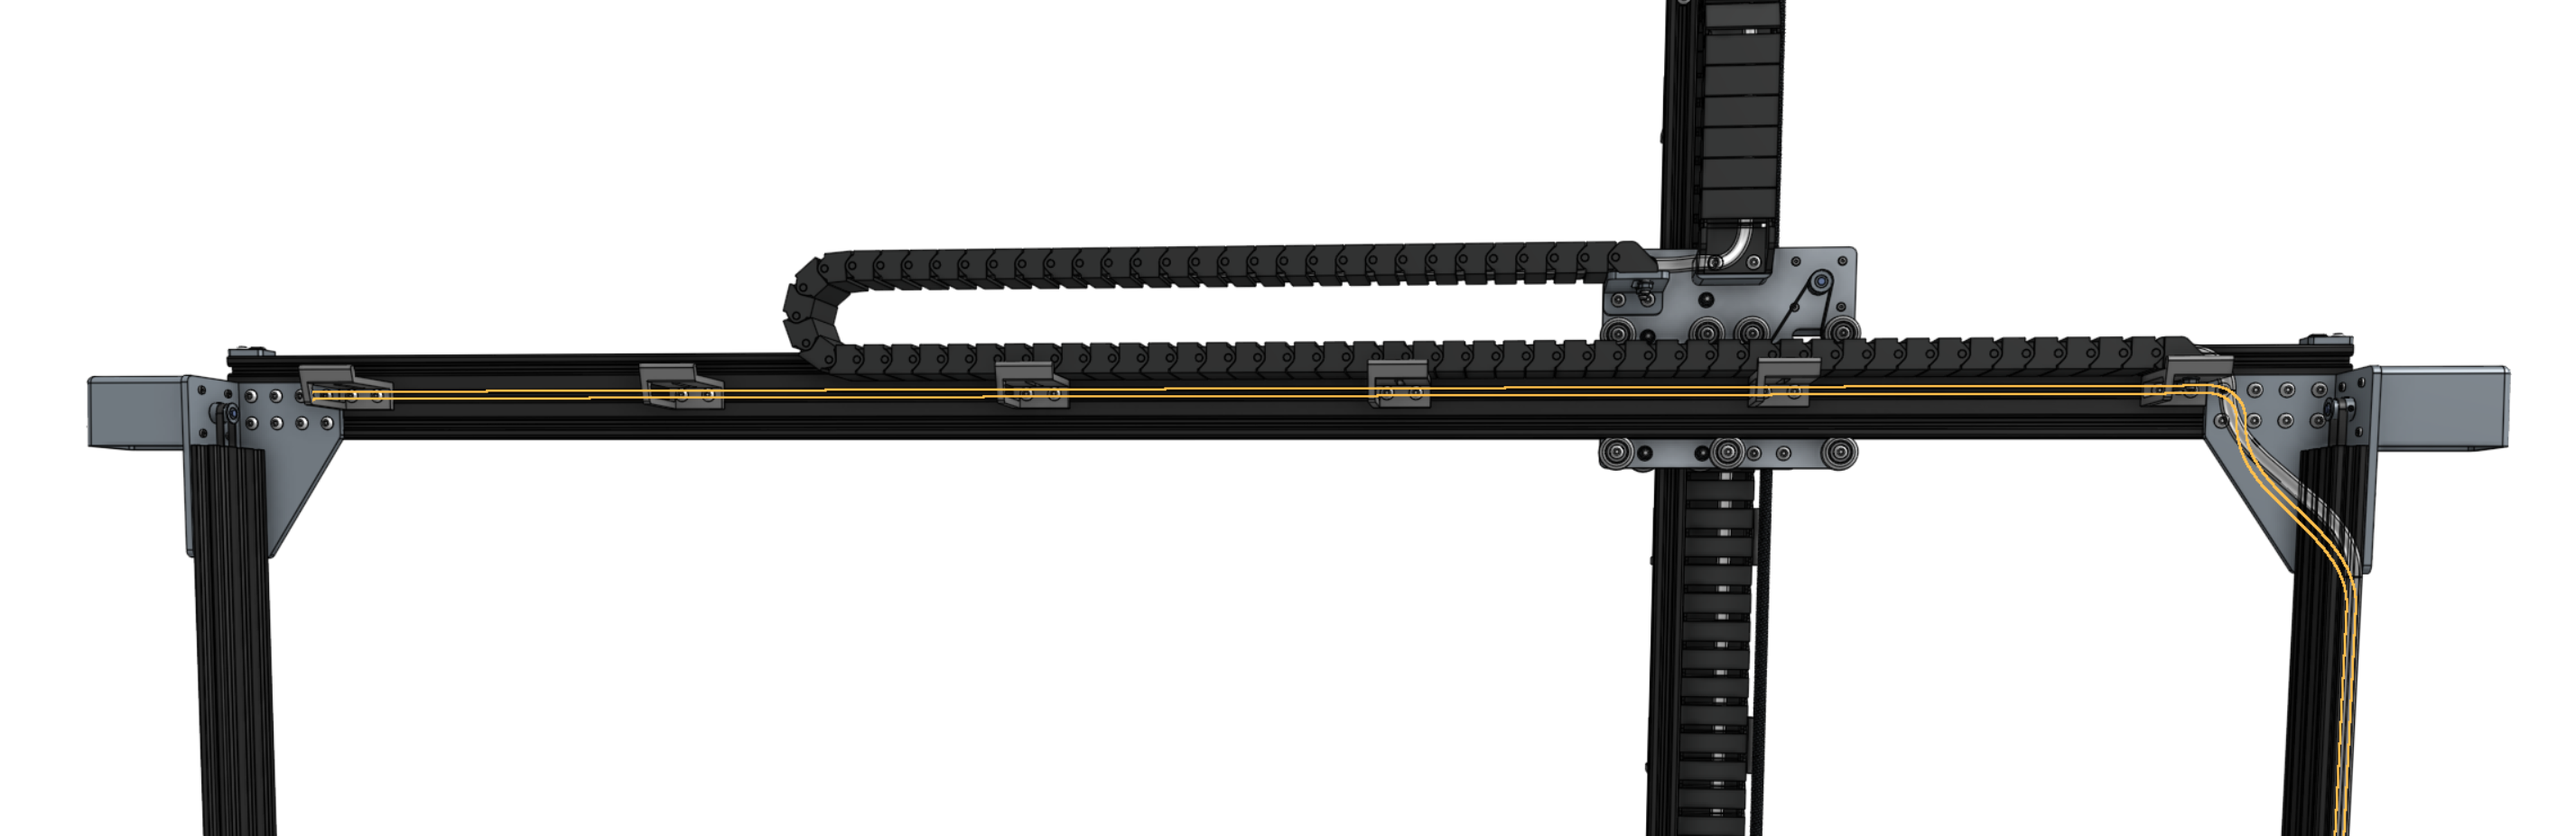
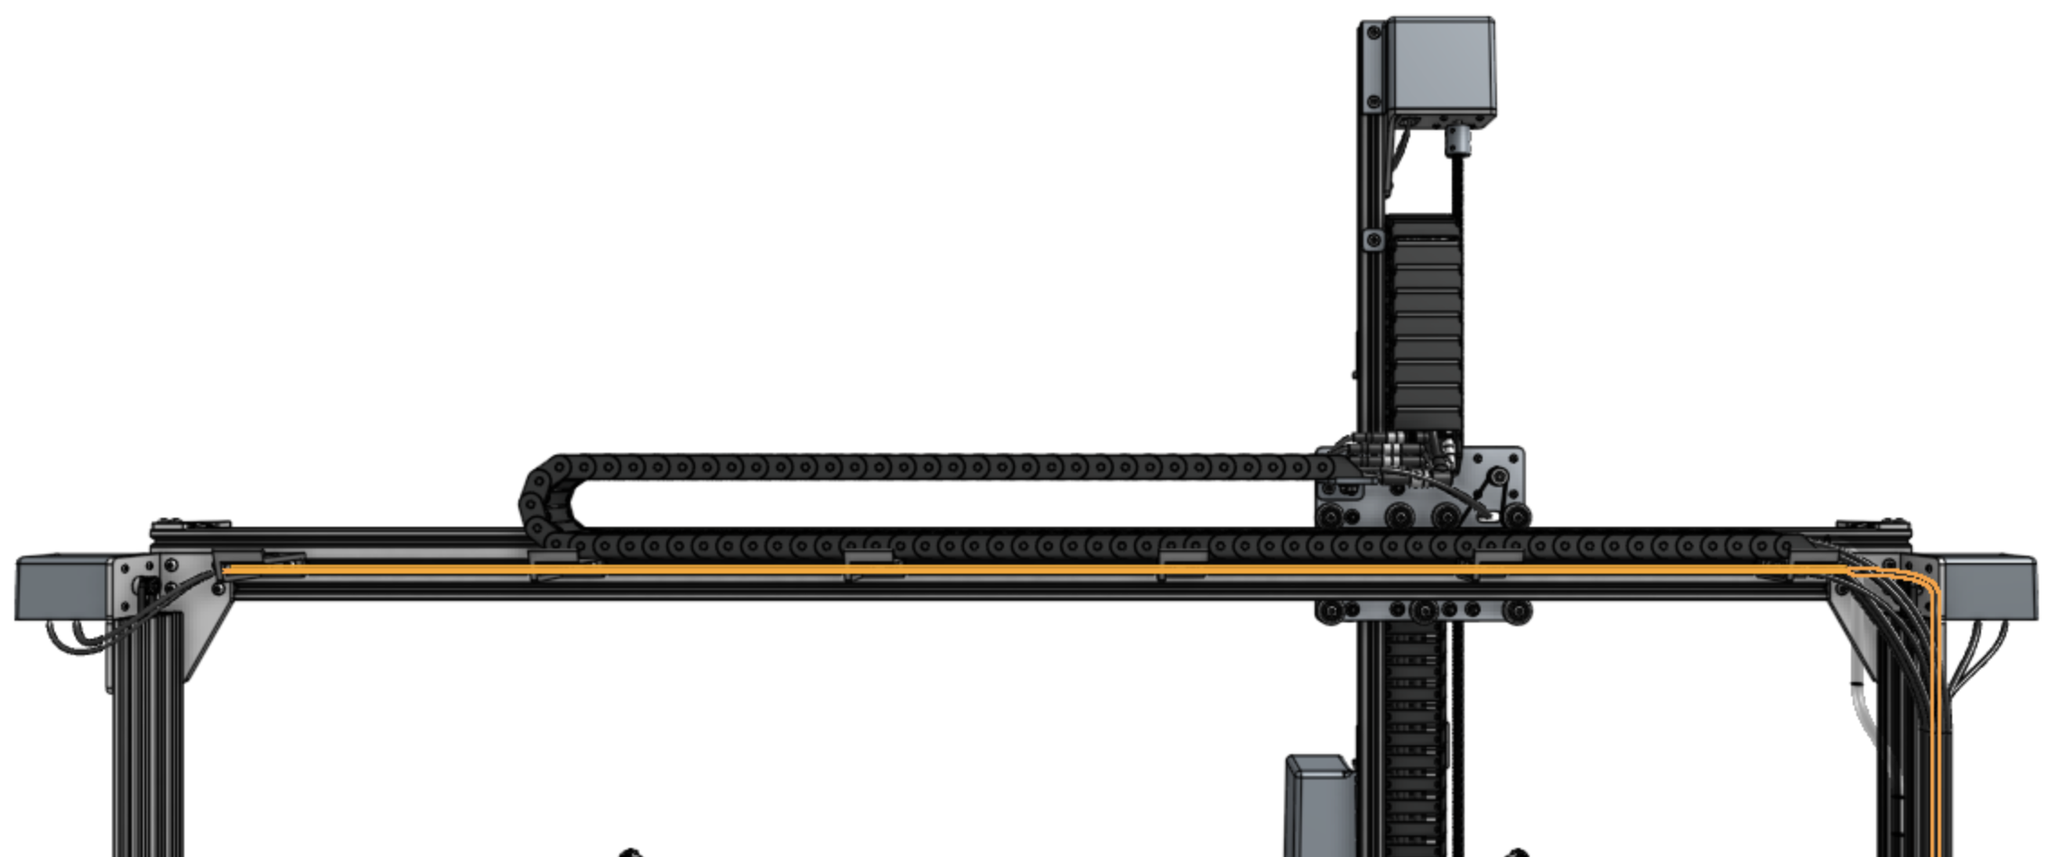
lighting

diff --git a/v1.6/assembly/cables-and-tubing/lighting.md b/v1.6/assembly/cables-and-tubing/lighting.md
@@ -10,7 +10,7 @@ description: "Add the LED light strip to the Gantry"
 
 # Install the light strip
 
-Feed the [LED light strip](../../bom/electronics-and-wiring/led-strip.md) through the horizontal cable carrier supports on the Gantry.
+Feed the [LED light strip](../../bom/electronics-and-wiring/led-strip.md) (highlighted orange in the image below) through the horizontal cable carrier supports on the gantry.
 
 ![lights](_images/lights.png)
 
